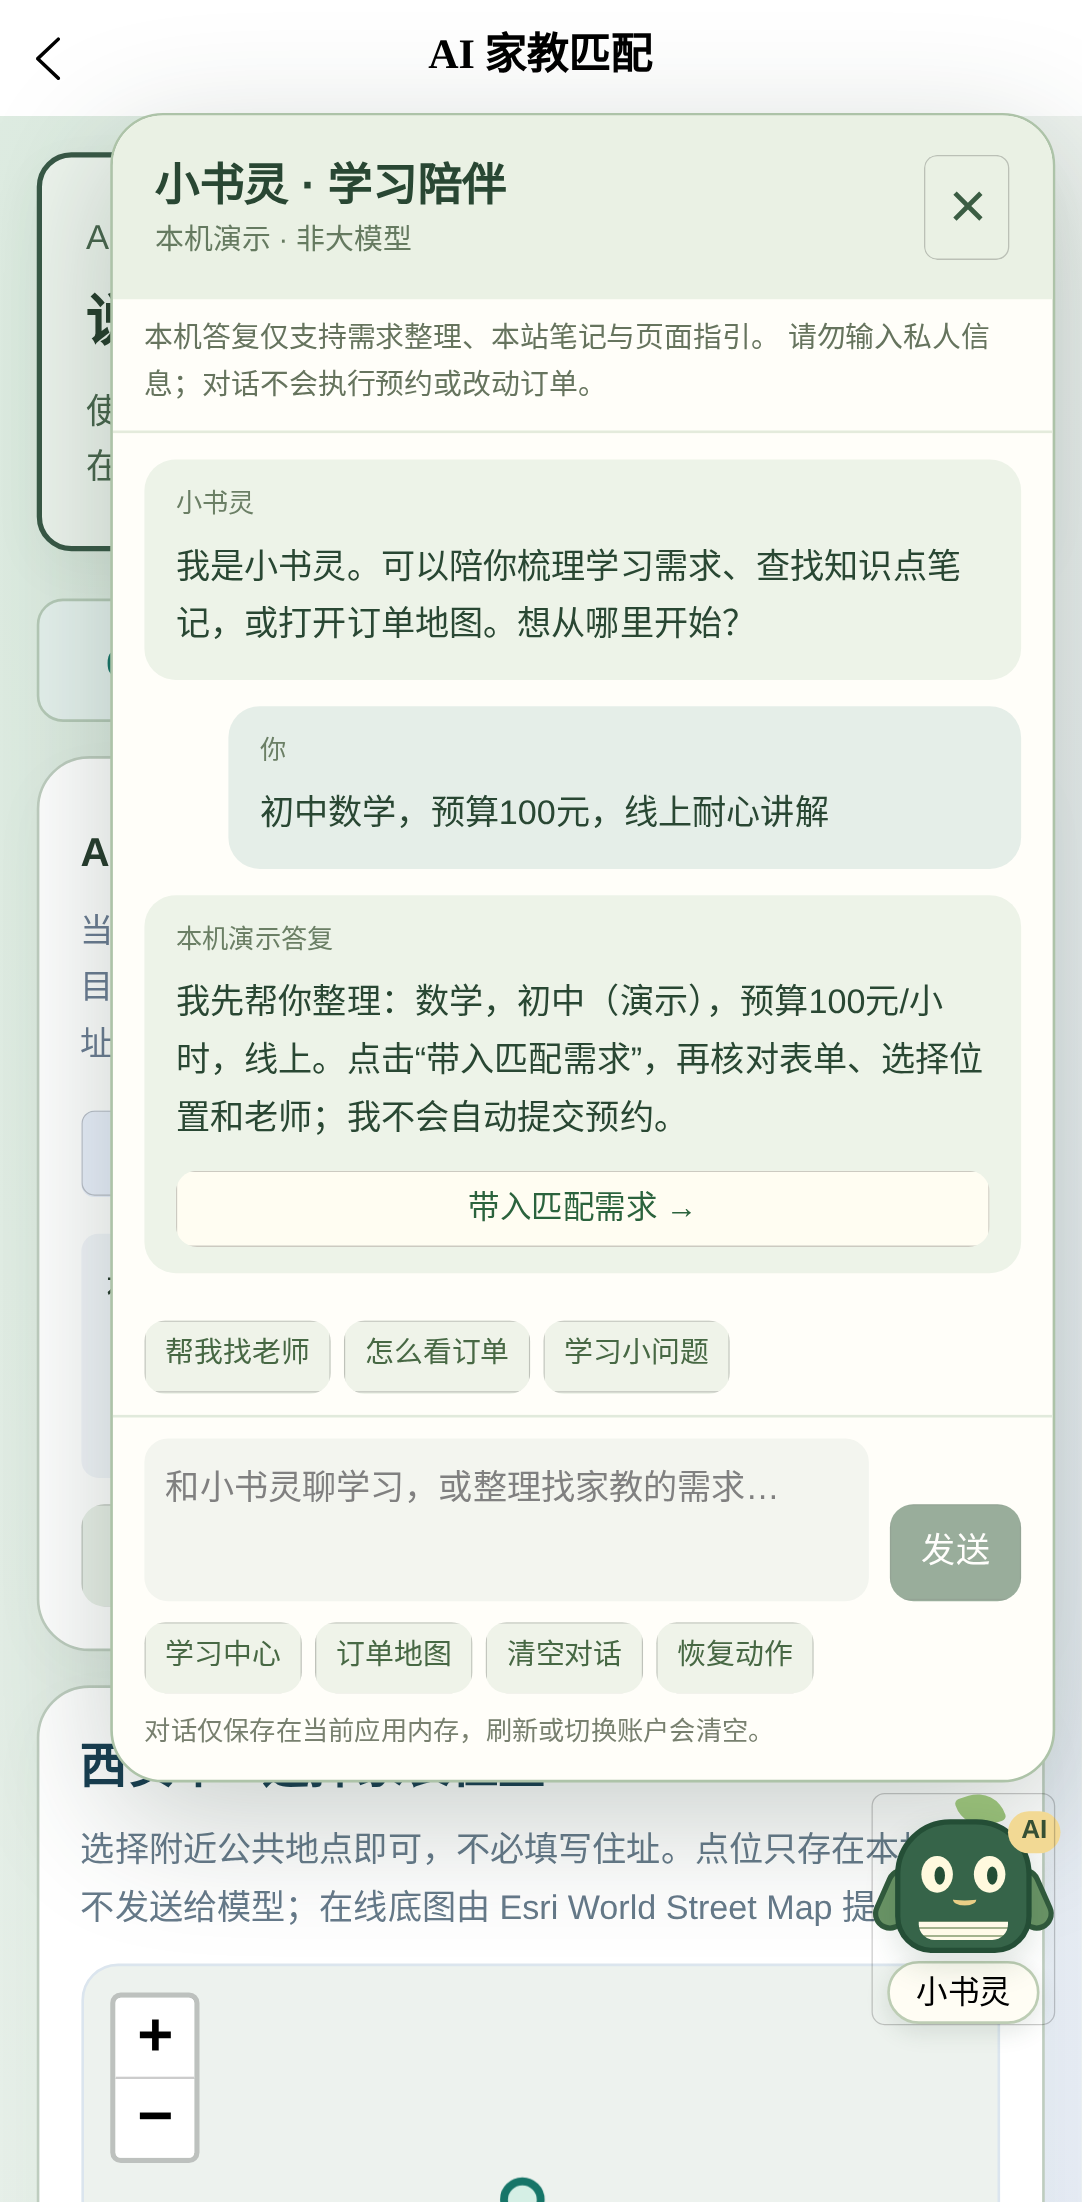
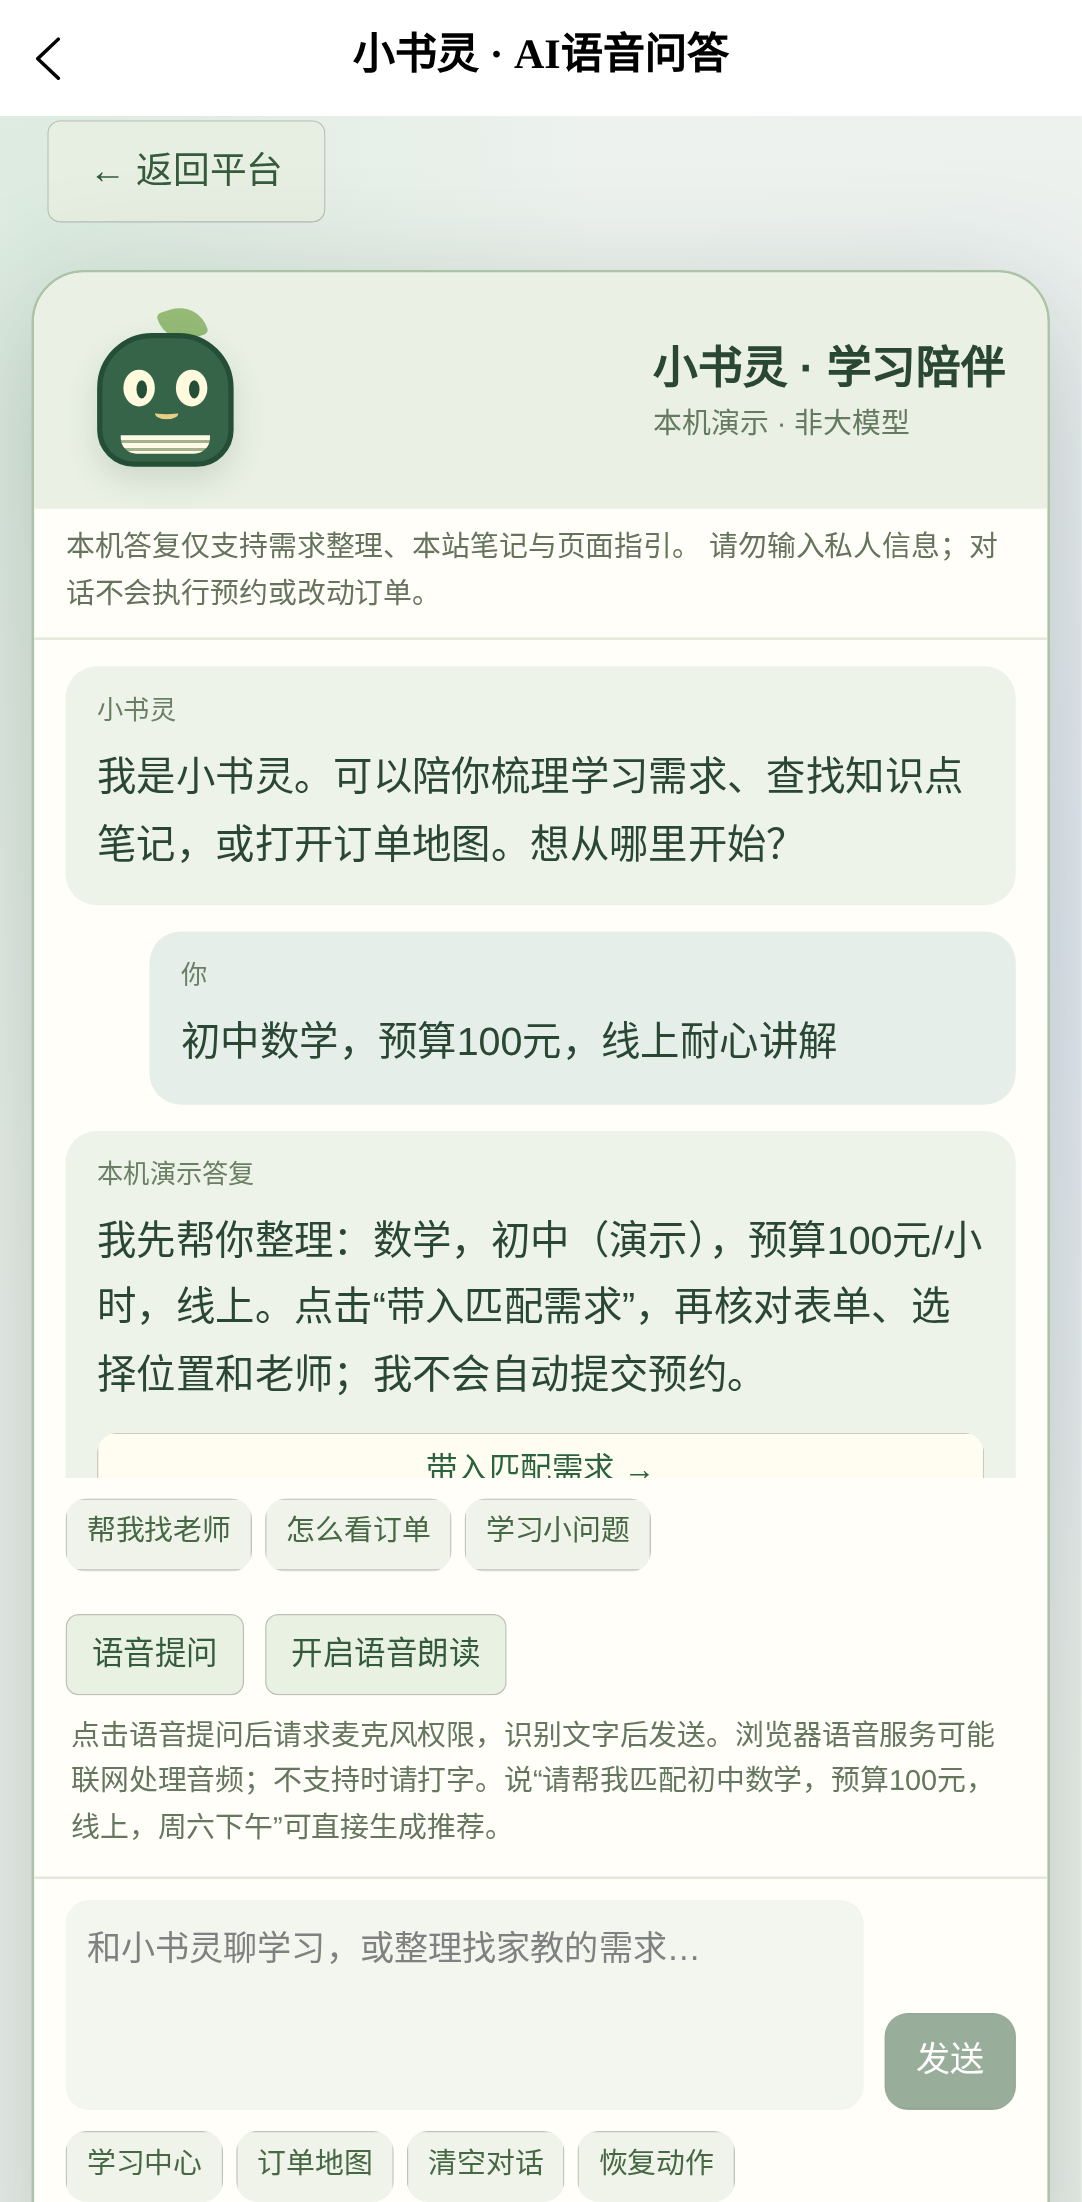
fix: isolate new voice requests and publish verified profile and assistant screenshots

diff --git a/src/services/assistant-command.ts b/src/services/assistant-command.ts
@@ -1,17 +1,27 @@
 import {parseBriefLocally} from './brief-parser'
+import type {MatchSuggestion} from './api/match-assistant'
 import {suggestionInput} from './study-match'
 import {validateMatch} from './matching'
 export function desiredSchedule(text:string):string{
  const normalized=text.replace(/星期/g,'周').replace(/周天/g,'周日')
- return normalized.match(/(?:周[一二三四五六日]|周末|工作日)(?:上午|下午|晚上)/)?.[0]??''
+ return normalized.match(/(?:周[一二三四五六日])\s*\d{1,2}[:：]\d{2}\s*[-–—~～至到]\s*\d{1,2}[:：]\d{2}/)?.[0]??normalized.match(/(?:周[一二三四五六日]|周末|工作日)(?:上午|下午|晚上)/)?.[0]??''
 }
-/** Explicit matching commands can run a read-only recommendation; never create an order. */
+/** Explicit matching commands only query recommendations; they never create an order. */
 export function matchingCommand(text:string,prior:string[]=[]){
- if(/怎么|如何|说明|不要|不想|取消|别帮/.test(text)||!/(?:帮我|请|开始|直接|我要).*(?:匹配|找.*老师|推荐.*老师)/.test(text))return null
- const brief=[...prior.slice(-2),text].join('，')
- if(/(?:1[3-9]\d{9}|[\w.+-]+@[\w.-]+\.[a-z]{2,}|身份证|微信|住址|姓名|电话|QQ号)/i.test(brief))return null
- const parsed=parseBriefLocally(brief.slice(-160))
- const input={...suggestionInput(parsed),desiredTime:desiredSchedule(brief)}
+ if(/怎么|如何|说明|不要|不想|取消|别帮/.test(text)||!/(?:帮我|请|开始|继续|按刚才|直接|我要).*(?:匹配|找.*老师|推荐.*老师)/.test(text))return null
+ if(/(?:1[3-9]\d{9}|[\w.+-]+@[\w.-]+\.[a-z]{2,}|身份证|微信|住址|姓名|电话|QQ号)/i.test(text))return null
+ const parsed=parseBriefLocally((text.length<6?'需求：':'')+text.slice(0,157))
+ const useHistory=/^(?:请帮我|帮我|请|现在)?(?:开始匹配|继续匹配|按刚才的需求匹配)[。！!]?$/.test(text.trim())
+ // New requests start afresh. Only explicit continuation commands may reuse history.
+ if(useHistory){
+  for(const previous of [...prior.slice(-2)].reverse()){
+   try{const old=parseBriefLocally(previous.slice(0,160));for(const key of ['subject','grade','budget','mode','preference'] as const){if(parsed[key]==null)(parsed as Record<keyof MatchSuggestion,unknown>)[key]=old[key]}}catch{/* unrelated/short turns supply no fields */}
+  }
+ }
+ const time=desiredSchedule(text)||(!useHistory?'':[...prior.slice(-2)].reverse().map(desiredSchedule).find(Boolean)??'')
+ const input={...suggestionInput(parsed),desiredTime:time}
  const error=validateMatch(input)
- return {input,brief:brief.slice(-160),error}
+ // Pass canonical validated fields to the matching page, never ambiguous old prose.
+ const brief=[input.grade.replace('（演示）',''),input.subject,input.budget?'预算'+input.budget+'元':'',input.mode,input.preference,time].filter(Boolean).join('，')
+ return {input,brief,error}
 }

diff --git a/tests/availability-command.test.ts b/tests/availability-command.test.ts
@@ -22,6 +22,10 @@ describe('空闲时间与明确匹配指令',()=>{
  })
  it('只执行明确且资料齐全的匹配指令，不执行使用说明或预约',()=>{
   const command=matchingCommand('请帮我匹配初中数学，预算100元，线上，周六下午')!
+  expect(matchingCommand('请帮我匹配高中英语预算200元，线下',['请帮我匹配初中数学预算100元，线上，周六下午'])?.input).toMatchObject({subject:'英语',budget:'200',grade:'高中（演示）',mode:'线下',desiredTime:''})
+  expect(matchingCommand('请帮我匹配数学预算2001元',['初中数学预算100元'])?.error).not.toBe('')
+  expect(matchingCommand('开始匹配',['初中数学预算100元'])?.error).toBe('')
+  expect(matchingCommand('请帮我开始匹配',['初中数学预算100元','线上周六下午'])?.error).toBe('')
   expect(command.error).toBe('');expect(command.input.desiredTime).toBe('周六下午')
   expect(matchingCommand('请帮我匹配数学')?.error).toContain('年级')
   for(const text of ['怎么匹配老师','请不要帮我匹配初中数学预算100元','帮我预约老师','电话13800138000请帮我匹配初中数学预算100元'])expect(matchingCommand(text)).toBeNull()

diff --git a/src/components/AiCompanion.vue b/src/components/AiCompanion.vue
@@ -11,7 +11,7 @@ import {matchingCommand} from '../services/assistant-command'
 const props=withDefaults(defineProps<{page?:boolean}>(),{page:false})
 const listening=ref(false),readAloud=ref(false),voiceError=ref('')
 const voice=createVoiceInput({text:text=>{listening.value=false;draft.value=text;void send()},error:message=>{listening.value=false;voiceError.value=message},end:()=>{listening.value=false}})
-function microphone(){voiceError.value='';if(listening.value){voice.stop();listening.value=false;return}listening.value=true;voice.start();if(!voice.supported)listening.value=false}
+function microphone(){voiceError.value='';if(listening.value){voice.stop();listening.value=false;return}stopVoiceOutput();listening.value=true;voice.start();if(!voice.supported)listening.value=false}
 function toggleRead(){readAloud.value=!readAloud.value;if(!readAloud.value)stopVoiceOutput()}
 const {messages,history,draft,mode,busy,error,paused}=toRefs(companionState)
 const open=ref(props.page),visible=ref(true),status=ref<'checking'|'enabled'|'disabled'|'error'>('checking'),loginNeeded=ref(false)

diff --git a/docs/AI_COMPANION_ORDER_MAP.md b/docs/AI_COMPANION_ORDER_MAP.md
@@ -8,7 +8,7 @@
 
 ## 对话桌宠
 
-小书灵是项目网页/小程序内的CSS动画角色，不是ChatGPT应用桌宠。支持浮动、眨眼、暂停动作和系统减少动画偏好。家长公共布局、匹配页和家教/管理员工作台可打开对话面板；主要页面间同一账户保留当前应用内存中的对话，刷新、清空或切换账户会清除。聊天内容不写入本项目数据库或本机持久存储。
+小书灵是项目网页/小程序内的CSS动画角色，不是ChatGPT应用桌宠。支持浮动、眨眼、暂停动作和系统减少动画偏好。家长公共布局、匹配页和家教/管理员工作台可点击进入独立问答页；主要页面间同一账户保留当前应用内存中的对话，刷新、清空或切换账户会清除。聊天内容不写入本项目数据库或本机持久存储。问答页另支持浏览器语音识别、朗读及明确指令发起匹配，详见 [语音与资料说明](PARENT_VOICE_PROFILE.md)。
 
 - 本机模式：明确标注“本机演示 · 非大模型”，只支持有限的需求关键词整理、本站原创笔记检索和操作指引，不声称是通用模型问答。
 - 模型模式：复用服务端 `MATCH_MODEL_BASE_URL / MATCH_MODEL_NAME / MATCH_MODEL_API_KEY`，可选 `CHAT_MODEL_TIMEOUT_MS`（1000–30000ms，默认15000）。三种已登录演示角色可调用。没有配置模型密钥，真实供应商调用/质量/费用未验证。

diff --git a/docs/PARENT_VOICE_PROFILE.md b/docs/PARENT_VOICE_PROFILE.md
@@ -34,3 +34,9 @@
 ## 启动
 
 仓库根目录 `npm ci`；`server/` 执行 `npm ci`、`npm run db:generate`。按 `DEMO_GUIDE.md` 初始化开发数据库和账户，再运行API与H5。纯本机演示可在根目录直接 `npm run dev:h5 -- --host 0.0.0.0`。问答路由为 `/#/pages/assistant/index`。
+
+## 验证与截图
+
+根目录类型检查和81项单元测试、B工作流9项、后端构建与96项测试通过；Mock/API × H5/微信小程序四种构建通过。演示验收涵盖初始化保护、资料重审、预约、权限、重启持久化和备份恢复。浏览器完整回归为48项通过、12项按数据模式跳过，含模拟麦克风/朗读接口与定位权限、1000字资料保存/审核、照片上传、语音直接推荐和订单自动刷新。
+
+可查看 [手机语音问答](screenshots/voice-api-mobile.png)、[家教定位](screenshots/tutor-location-api-mobile.png)、[匹配权重](screenshots/ranking-api-mobile.png) 和 [照片审核](screenshots/tutor-photo-api-mobile.png)。麦克风和定位测试使用浏览器模拟能力，不代表已经验证具体手机设备或语音服务供应商。

diff --git a/docs/DELIVERY_STATUS.md b/docs/DELIVERY_STATUS.md
@@ -96,3 +96,7 @@ Mock 以前只寻找“已批准的申请”，当家教修改已通过资料并
 - **微信验证**：缺 AppID、合法请求域名及开发者工具/设备环境；编译通过不等于真机验收。
 - **参赛材料**：仓库仍需官方赛事要求、真实调研与商业验证证据、路演 PPT/视频/FAQ；不把演示脚本算作这些材料已完成。
 - **正式运营能力**：真实微信身份、家教资质核验、通知和支付尚未实现。当前提供开发与演示能力。
+
+## 2026-10-22 家教资料与家长语音匹配
+
+整合照片与自述教学资料，保留小书灵、学习中心和按权限订单地图；简介最多1000字，新增主动定位到公共服务片区。匹配默认学科35、时间30、经验20、费用10、其他5。小书灵点击进入独立问答页，支持浏览器语音识别、朗读和明确指令发起推荐。详细操作、测试、截图及语音/模型/真机边界见 [本批说明](PARENT_VOICE_PROFILE.md)，集成PR为 #32。
